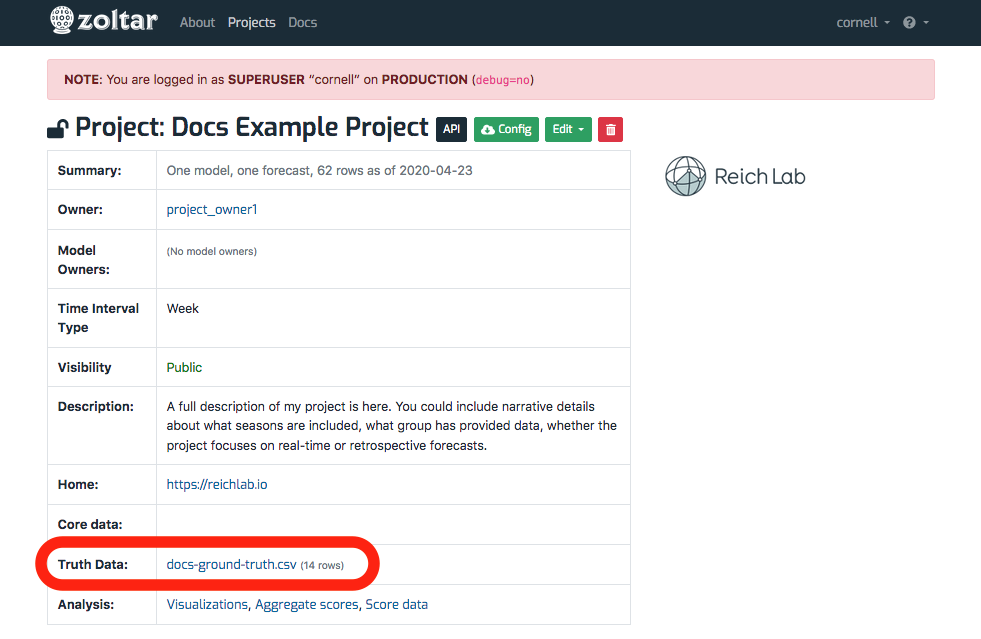
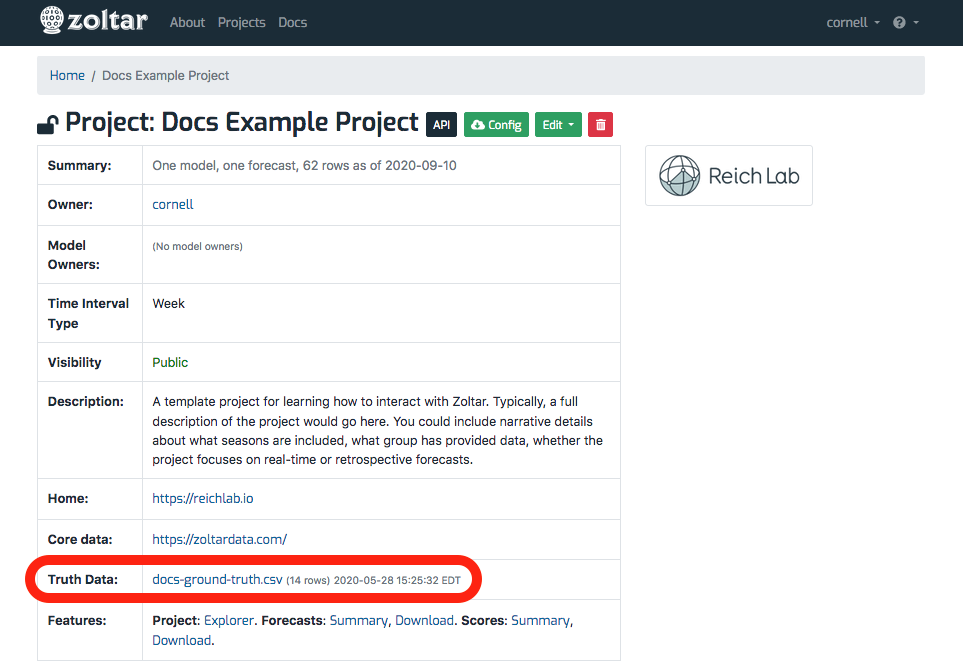
big update including up-to-date images, download job data, and querying forecasts and scores

Changed region(s): [[0.0, 0.0, 1.0, 0.9812], [0.6542, 0.2081, 0.8411, 0.3271]]

diff --git a/docs/Forecasts.md b/docs/Forecasts.md
@@ -7,34 +7,26 @@ A _forecast_ is a set of predictions for combinations of units and targets. See 
 
 ## Upload a forecast
 
-Here we show how to upload forecast data into Zoltar. It is important to know that Zoltar _enqueues_ long operations like forecast uploading, which keeps the site responsive but makes uploading a little more complicated. Rather than having the upload feature _block_ until the upload is done, you instead get a quick response in the form of an _upload file job_ detail page that shows the status of your upload. This page is described in [Check an upload's status](#check-an-uploads-status) below.
+Here we show how to upload forecast data into Zoltar.
+
+> Note: As mentioned at [Jobs](Jobs.md), uploading a forecast is done in a separate worker process because it may take more than a handful of seconds to run. Thus the workflow is based on that (see [Job workflow](Jobs.md#workflow) for details).
+
 
 Forecasts are uploaded to a particular model for a particular time zero. To upload one:
 
 1. Go to the [model detail page](ModelDetailPage.md) of the one you want to upload into.
+1. Make sure "Hide if no data" is unchecked.
 1. Find the time zero that the forecast is associated with.
 1. If the time zero already has a forecast then delete it (see **Delete a forecast** below). You can tell if a time zero has an uploaded forecast in two ways: the text in the "Data Source" column is a link instead of the words "(No data)" and the icon in the "Action" column is a red trash can and not a green upload icon.
 1. Click the "Browse..." button in the time zero's "Action" column.
 1. In the dialog that appears, select a Forecast data format JSON file
 1. Click the green upload button.
-1. If the file is OK then you will be taken to an upload file job detail page that shows the status of your upload, with the message "Queued the forecast file __ for uploading.", where __ is your file's name. See [Check an upload's status](#check-an-uploads-status) below for this page's details.
-1. Once the upload is successful (you can refresh the upload file job page to check) then you will see it next to the selected time zero on the [model detail page](ModelDetailPage.md).
+1. If the file is OK then you will be taken to a [job detail page](Jobs.md#check-a-jobs-status) that shows the status of your upload, with the message "Queued the forecast file _ for uploading.", where _ is your file's name.
+1. Once the upload is successful (you can refresh the job detail page to check) then you will see the newly-uploaded file listed next to the selected time zero on the [model detail page](ModelDetailPage.md).
 1. If there was a problem uploading then you will see the upload's status as **FAILED**. The **Failure** section will provide some information to help debug the problem.
 
 
-## Download a single forecast
-
-> Note: Downloading multiple forecasts is possible, but only programmatically using the [Zoltar libraries](ApiIntro.md). Learn more on the [forecast query format](ForecastQueryFormat.md) page.
-
-
-To download a particular forecast:
-
-1. Go to the [model detail page](ModelDetailPage.md) where the forecast resides.
-1. Click the link in the "Data Source" column to go to the [forecast detail page](Forecasts.md).
-1. Click the "Download JSON" button and save the file in the JSON format documented at [Forecast data format](FileFormats.md#forecast-data-file-format-json) for details.
-
-
-# Delete a forecast
+## Delete a forecast
 
 Delete a forecast via these steps:
 
@@ -43,39 +35,42 @@ Delete a forecast via these steps:
 1. Click "Delete" in the confirmation dialog that appears. **Note that this cannot be undone!**
 
 
-# Check an upload's status
+## Download a single forecast
 
-As described above, uploading a file _enqueues_ the actual uploading of the data for handling by a Zoltar worker process, rather than processing the upload immediately. The job detail page is where you can check the status of an upload, or any other long-running activity. (Note that how long it takes for a file to be processed depends on how busy the site is.) Here's an example upload file job detail page for one whose status is QUEUED:
+To download a particular forecast:
 
-![Upload file job detail page](img/upload-file-job-detail-queued.png "Upload file job detail page")
+1. Go to the [model detail page](ModelDetailPage.md) where the forecast resides.
+1. Click the link in the "Data Source" column to go to the [forecast detail page](Forecasts.md).
+1. Click the "Download JSON" button and save the file in the JSON format documented at [Forecast data format](FileFormats.md#forecast-data-file-format-json) for details.
 
-You can see that it has the following fields:
-
-- _User_: User who uploaded the file.
-- _Status_: The upload's status, which is one of the following:
-    - **PENDING**: The state an upload starts in.
-    - **CLOUD_FILE_UPLOADED**: The uploaded file was successfully saved to temporary cloud storage.
-    - **QUEUED**: The upload file job was successfully enqueued for processing.
-    - **CLOUD_FILE_DOWNLOADED**: The uploaded file was successfully retrieved from temporary cloud storage
-    - **SUCCESS**: The job was successfully completed.
-    - **FAILED**: The job failed.
-- _File Name_: The uploaded file's name that was given to Zoltar.
-- _Failure_: The failure message if status is FAILED, or "None" otherwise. This section will provide some information to help debug the problem.
-- _ΔT_: How much time the upload took to process. This is formatted as "<hours>:<minutes>:<seconds>.<microsecond>", For example, "0:00:01.155223" means the job took zero hours, zero minutes, one second, and 155223 microseconds.
-- _Created_: Date and time the file was uploaded at.
-- _Updated_: The last time the upload's status was changed.
-- _JSON In_: The JSON information passed internally to the upload. You can ignore this.
-- _JSON Out_: "" returned internally by the upload. ""
-
-Note that you must refresh this page to get the latest status (it does not update dynamically). 
-
-You can see all of your upload file jobs in the **Upload File Jobs** section on your [user profile page](Accounts.md). 
-
-For reference, here are two other jobs in different states. This one's state is SUCCESS:
-
-![Upload file job success](img/upload-file-job-detail-success.png "Upload file job success")
+(Note that if you are only interested in a particular unit/target combination, you can use the "Query Forecast Data" form on that page - see [here](ForecastDetailPage.md#query-form-and-results) for details.)
 
 
-And this one FAILED:
+## Download multiple forecasts
 
-![Upload file job failed](img/upload-file-job-detail-failed.png "Upload file job failed")
+> Note: Downloading multiple forecasts is currently available only to users with Zoltar accounts.
+>
+> Note: As mentioned at [Jobs](Jobs.md), downloading a forecast is done in a separate worker process because it may take more than a handful of seconds to run. Thus the workflow is based on that (see [Job workflow](Jobs.md#workflow) for details).
+
+Forecasts are downloaded by executing a [forecast query](ForecastQueryFormat.md) by either a) [Zoltar API](Api.md) using the [Zoltar libraries](ApiIntro.md), or b) via a simple web UI form (shown below). In both cases you need to follow these steps:
+ 
+ 1. Decide the data of interest (i.e., `models`, `units`, `targets`, `timezeros`, and prediction `types`).
+ 1. Submit the query to get a Job ID.
+ 1. Poll the resulting Job until it succeeds (see [Check a job's status](Jobs.md#check-a-jobs-status)).
+ 1. Download the job's data (see [Download a job's data](Jobs.md#download-a-jobs-data)). The format is described at [Forecast data format (CSV)](FileFormats.md#forecast-data-format-csv).
+ 
+ 
+## Download multiple forecasts via the web UI
+ 
+ To download forecast data via the web UI:
+ 
+ 1. Go to the [project detail page](ProjectDetailPage.md) whose models contain the forecasts. 
+ 1. Click the "Download" button to the right of "Forecasts" in the Features section at the page's top.
+ 1. On the "Edit Forecast Query" page that shows, enter your query and then click "Submit" (see the screen shot below).
+ 1. Poll the resulting Job until it succeeds (see [Check a job's status](Jobs.md#check-a-jobs-status)).
+ 1. Download the job's data (see [Download a job's data](Jobs.md#download-a-jobs-data)).
+
+
+Here's an example of the Edit Forecast Query page:
+
+![Query forecasts page](img/query-forecasts.png "Query forecasts page")

diff --git a/docs/ProjectDetailPage.md b/docs/ProjectDetailPage.md
@@ -2,7 +2,7 @@
 
 A *project* is the main element for representing a forecasting challenge. It has an *owner* (a registered user in the system), and zero or more *model owners* (also users in the system). A project owner can do anything to the project, but model owners are limited to creating, editing, and deleting forecast models, and uploading and deleting forecasts. (To become a model owner you must contact the project owner.)
 
-Each project's detail page is divided into five vertical sections with **bold** headings, described next: **Details table**, **Models**, **Units**, **Targets**, and **Time zeros**. Currently the top looks like this:
+Each project's detail page is divided into five vertical sections with **bold** headings, described next: **Details table**, **Models**, **Units**, **Targets**, and **Time zeros**. Here's an example (the bottom has been cut off):
 
 ![Project detail page](img/project-detail-page.png "Project detail page")
 
@@ -23,7 +23,7 @@ At the top of the page is a table showing this information related to the projec
 - _Home_: A link to the project's home page, which might include details about any competitions, source code, team members, included models, etc.
 - _Core data_: A link to a page that contains data (e.g., CSV files) used to train models. For model competitions, it should include all data sets made available to everyone in the challenge, including supplemental data like Google queries or weather data. Ideally Zoltar users interested in re-running a project's models have all they need in the home and core data directories. However, they are not used directly by Zoltar.
 - _Truth data_: A data file containing target ground truth that the project owner uploads. This data contains observed target values for time zeros and locations in the project, and is a project-agnostic way to capture actual values that models predicted for. It is used to calculate scores, and to extract the 'actual' data used in the D3 component's TimeChart. See [Truth](Truth.md) for details.
-- _Analysis_: Links to visualization and score pages. See [Scoring](Scoring.md) for details.
+- _Analysis_: Links to visualization and score pages, including links to [download forecasts](Forecasts.md#download-multiple-forecasts) and [download scores](Scoring.md#downloading-scores). 
 
 
 ## Forecast models
@@ -38,17 +38,16 @@ This section lists names of the **units** in the project. (See [Concepts](Concep
 
 ## Targets
 
-This section lists information about project forecast targets, which are a central Zoltar concept. See [Targets](Targets.md) for more about them. Like units, these were created by the project owner. Some of these parameters are optional - [this table](xx#summary-of-allowed-optional-and-required-parameters-by-target-type) shows which apply based on target type.
+This section lists information about project forecast targets, which are a central Zoltar concept. See [Targets](Targets.md) for more about them. Like units, these were created by the project owner. Some of these parameters are optional - [this table](Targets.md#summary-of-allowed-optional-and-required-parameters-by-target-type) shows which apply based on target type.
 
-the table includes the following columns:
+The table includes the following columns:
 
-- _Name_: Self-explanatory.
-- _Description_: "".
+- _Target group_: This column is either a target's name, or a derived name from a group of related targets (step-ahead ones whose step ahead increment is in the name).
+- _# Targets_: How many targets are in the group, or _1_ if not a group.
 - _Type_: The target's [type](Targets.md#target-types).
-- _Unit_: E.g., "percent" or "week". Unit is used when previewing data, and when downloading it. (Be aware that it can be confusing having both __unit__ objects as above along with a specific target's unit.)
+- _Unit_: E.g., "percent" or "week". Unit is used when previewing data, and when downloading it. (Be aware that it can be confusing having both **unit** objects as above along with a specific target's unit.)
 - _Step Ahead?_: Shows two pieces of information: 1) Whether the target is a "step ahead" one, and (if so) 2) what the "step ahead increment" is. (Step ahead targets are used to predict values in the future, and are used by some analysis tools.)
-- _Range_: An optional numerical range of acceptable values.
-- _Cats_: Optional acceptable categories for binned distributions.
+- _Example Target_: A specific target's name if a group, or the one target's name otherwise.
 
 
 ## Time zeros

diff --git a/docs/Truth.md b/docs/Truth.md
@@ -1,6 +1,6 @@
 # Manging truth data
 
-Zoltar supports uploading ground truth data for each project that desires automatic scoring. This data is specified as a CSV file as documented in [Truth data format](http://127.0.0.1:8000/FileFormats/#truth-data-format-csv), and each project is responsible for generating the CSV file for their particular set of [time zeros](Concepts.md), [units](Concepts.md) and [targets](Concepts.md). You can tell whether truth has been uploaded to a project by looking at the **Truth Data** row in the [Project details table](http://127.0.0.1:8000/ProjectDetailPage/#project-details-table) section of the [project detail page](ProjectDetailPage.md). It will either be a link with the truth data file name (which means truth is present) and the number of rows in parentheses, or a "Browse..." button next to a green "Upload" button with the text _(No truth data)_ to its right otherwise. Clicking on the link takes you to the Truth detail page documented in [Truth detail page](#view-truth-details) below.
+Zoltar supports uploading ground truth data for each project that desires automatic scoring. This data is specified as a CSV file as documented in [Truth data format](FileFormats.md#truth-data-format-csv), and each project is responsible for generating the CSV file for their particular set of [time zeros](Concepts.md), [units](Concepts.md) and [targets](Concepts.md). You can tell whether truth has been uploaded to a project by looking at the **Truth Data** row in the [Project details table](ProjectDetailPage.md#project-details-table) section of the [project detail page](ProjectDetailPage.md). It will either be a link with the truth data file name (which means truth is present) and the number of rows in parentheses, or a "Browse..." button next to a green "Upload" button with the text _(No truth data)_ to its right otherwise. Clicking on the link takes you to the Truth detail page documented in [Truth detail page](#view-truth-details) below.
 
 Here's a screen shot showing a project where truth has been uploaded (circled in red):
 
@@ -29,17 +29,17 @@ Here you see a small information table at the top showing the project and truth 
 Follow these steps to upload a truth CSV file:
 
 1. Go to the [project detail page](ProjectDetailPage.md) of the project of interest.
-1. Click the "Browse..." button in the [Project details table](http://127.0.0.1:8000/ProjectDetailPage/#project-details-table)'s **Truth Data** row.
-1. In the dialog that appears, select a truth data CSV file in Zoltar's [Truth data format](http://127.0.0.1:8000/FileFormats/#truth-data-format-csv).
+1. Click the "Browse..." button in the [Project details table](ProjectDetailPage.md#project-details-table)'s **Truth Data** row.
+1. In the dialog that appears, select a truth data CSV file in Zoltar's [Truth data format](FileFormats.md#truth-data-format-csv).
 1. Click the green upload button.
-1. If the file is OK then you will be taken to an upload file job detail page that shows the status of your upload, with the message "Queued the truth file __ for uploading.", where __ is your file's name. See [Check an upload's status](#check-an-uploads-status) below for this page's details.
+1. If the file is OK then you will be taken to an upload file job detail page that shows the status of your upload, with the message "Queued the truth file _ for uploading.", where _ is your file's name. See [Check an upload's status](#check-an-uploads-status) below for this page's details.
 1. Once the upload is successful (you can refresh the upload file job page to check) then you will the file name as a link as described above.
 1. If there was a problem uploading then you will see the upload's status as **FAILED**. The **Failure** section will provide some information to help debug the problem.
 
 
 ## Download truth
 
-Here are the steps to download a project's truth data as a CSV file in Zoltar's [Truth data format](http://127.0.0.1:8000/FileFormats/#truth-data-format-csv):
+Here are the steps to download a project's truth data as a CSV file in Zoltar's [Truth data format](FileFormats.md#truth-data-format-csv):
 
 1. Go to the [project detail page](ProjectDetailPage.md) of the project of interest.
 1. Click the truth link above go to the [Truth detail page](#view-truth-details) page.

diff --git a/docs/ForecastDetailPage.md b/docs/ForecastDetailPage.md
@@ -1,6 +1,6 @@
 # Forecast detail page
 
-The forecast detail page shows information about a particular forecast, and is divided into two vertical sections with **bold** headings, described next: __Details table__ and __Prediction information__. Here's an example forecast detail page: 
+The forecast detail page shows information about a particular forecast, and is divided into five vertical sections with **bold** headings, described next: **Details table**, **Units present**, **Targets present**, **Predictions present**, and **Query form and results**. Here's an example forecast detail page: 
 
 ![Forecast detail page](img/forecast-detail-page.png "Forecast detail page")
 
@@ -12,10 +12,36 @@ At the top of the page is a table showing information related to the forecast:
 - _Model_: A link to the owning [model](ModelDetailPage.md).
 - _Timezero_: The time zero that the forecast applies to. (The data version date, if any, is not shown here.) See [Concepts](Concepts.md) for more about time zeros.
 - _Data Source_: Text describing where the forecast came from. It can be anything but is typically a data file name, such as a CSV. The source is a link to the forecast's [forecast detail page](ForecastDetailPage.md). It says "(No data)" if a forecast has not yet been uploaded for that time zero. 
-- _Upload Date_: The date and time that the forecast was uploaded to Zoltar.
+- _Upload time_: The date and time that the forecast was uploaded to Zoltar.
 - _Notes_: Text describing anything slightly different about a given forecast, e.g., a changed set of assumptions or a comment about when the forecast was created. Notes should be brief, typically less than 50 words.
 
 
-## Predictions
+## Units present
 
-The predictions section has a heading like **"Forecast has __ predictions"** (where __ is the actual number of predictions) and a bulleted summary of the counts of the five different prediction types that can be associated with a forecast: `bin`, `named`, `point`, `quantile`, and `sample`. The "Download JSON" button downloads a JSON file containing the forecast's predictions. See [Data Model](DataModel.md) for more information on how forecast data is modeled.
+This section is the same as on the [project detail page](ProjectDetailPage.md), but lists only those units for which this forecast predicts.
+
+
+## Targets present
+
+This section is the same as in [project detail page](ProjectDetailPage.md), but lists only those targets for which this forecast predicts.
+
+
+## Predictions present
+
+The predictions section has the heading **"Predictions (_)"** (where _ is the actual number of predictions) and a bulleted summary of the counts of the five different prediction types that can be associated with a forecast: `bin`, `named`, `point`, `quantile`, and `sample`. See [Data Model](DataModel.md) for more information on how forecast data is modeled.
+
+
+## Query form and results
+
+At the bottom of the page under **Query Forecast Data** is a simple form that allows searching the forecast's predictions by unit and target. (Those two dropdown menus contain the units and targets that have predictions, but there's no guarantee that every combination has data.) Clicking Search runs the query and shows the results below the form. There is a table for each type of prediction that's present (`bin`, `named`, etc.) and each table's columns are customized according to the prediction type (all tables have **Unit** and **Target** columns):
+
+- `bin`: **Prob** and **Cat** columns
+- `named`: **Family**, **Param 1**, **Param 2**, and **Param 3** columns
+- `point`: a **Value** column
+- `quantile`: **Quantile** and **Value** columns
+- `sample`: a **Sample** column
+
+
+Here's an example (the page has been scrolled down) under **Found predictions**:
+
+![Forecast detail page with query results](img/forecast-detail-page-query.png "Forecast detail page with query results")

diff --git a/docs/Jobs.md b/docs/Jobs.md
@@ -1,0 +1,64 @@
+# Jobs
+
+Some Zoltar operations can take longer than a handful of seconds to run. For these cases, Zoltar offloads them to a separate worker process so that the web site remains responsive. We call those offloaded operations **Jobs**, and this page describes how to work with them.
+
+
+These are the activities that return jobs:
+
+- [Uploading truth](#xx) or [uploading a forecast](#xx) (does not result in data)
+- [Querying forecasts](#xx) or [querying scores](#xx) (results in data)
+- [Deleting a forecast](#xx) (no data)
+
+
+To see a list of all of your jobs, go to your [profile page](Accounts.md#view-your-profile-page) and scroll down to the **Jobs** section.
+
+
+## Workflow
+
+When you initiate one of the above activities (either via the Web or the API), Zoltar creates an internal Job to track it and returns that Job's ID so you can check its status and optionally download any corresponding data. The workflow is:
+
+1. Initiate the activity. This returns a job that you can use to a) track the status of the query, and b) optionally download the job's data.
+1. Poll the job until its status is **SUCCESS**. (You can use the Web UI to do this - see [Check a job's status](#check-a-jobs-status) for how.)
+1. Optionally [download the job's data](#download-a-jobs-data), if applicable. Note that data is available for 24 hours after it's created.
+
+
+## Check a job's status
+
+The job detail page is where you can check the status of long-running activities. (Note that how long it takes for a file to be processed depends on how busy the site is.) Note that you must refresh this page to get the latest status (it does not update dynamically).
+
+
+Here's an example job detail page for an upload whose status is SUCCESS:
+
+![Job detail page - success](img/job-success-data.png "Job detail page - success")
+
+You can see that it has the following fields:
+
+- _User_: User who uploaded the file.
+- _Status_: The upload's status, which is one of the following:
+    - **PENDING**: The state an upload starts in.
+    - **CLOUD_FILE_UPLOADED**: The uploaded file was successfully saved to temporary cloud storage.
+    - **QUEUED**: The upload file job was successfully enqueued for processing.
+    - **CLOUD_FILE_DOWNLOADED**: The uploaded file was successfully retrieved from temporary cloud storage
+    - **SUCCESS**: The job was successfully completed.
+    - **FAILED**: The job failed.
+    - **TIMEOUT**: The job ran too long and was terminated.
+- _Failure_: The failure message if status is FAILED, or "None" otherwise. This section will provide some information to help debug the problem.
+- _ΔT_: How much time the upload took to process. This is formatted as "<hours>:<minutes>:<seconds>.<microsecond>", For example, "0:00:01.155223" means the job took zero hours, zero minutes, one second, and 155223 microseconds.
+- _Created_: Date and time the file was uploaded at.
+- _Updated_: The last time the upload's status was changed.
+- _JSON In_: The JSON information passed internally to the upload. You can ignore this.
+- _JSON Out_: "" returned internally by the upload. ""
+
+
+Here is a job whose status is FAILED, with a failure message:
+
+![Job detail page - failed](img/job-failed.png "Job detail page - failed")
+
+
+## Download a job's data
+
+Each job's detail page has a "Download CSV" button at the bottom. The button is enabled if the job has corresponding data, and disabled otherwise with the message _(No job data)_ next to the button.
+
+The first screen shot above shows a job that has data that can be downloaded. Here's a job with no data available:
+
+![Job detail page - no data](img/job-success-no-data.png "Job detail page - no data")

diff --git a/docs/Scoring.md b/docs/Scoring.md
@@ -26,20 +26,26 @@ At the time of writing Zoltar implements these scores:
 In addition, aggregate score values are calculated (see below).
 
 
-## Viewing scores
-
-Scores are accessed from the [project detail page](ProjectDetailPage.md) of the project of interest via the links in the **Analysis** row in the project details table at the top of the page. There are three links:
-
-- _Visualizations_: Takes you to a page that shows a time chart of the project's predictions. See the [visualization](Visualization.md) page for details.
-- _Aggregate scores_: Goes to the "Mean Absolute Error" page. [Absolute error](https://github.com/reichlab/flusight/wiki/Scoring#1-absolute-error) is the absolute value of difference between the eventually observed value and the point prediction. This page is an aggregate of scores that are currently in Zoltar, and only as up-to-date as they are. No scores are shown for a particular unit or target if the errors could not be calculated because not all truth values were available for it. <!-- TODO more detail -->
-- _Score data_: The linked-to page shows score counts at both the project and model levels. Only those scores that have values are shown.
-
-
-Here's an example score page: 
-
-![Scores page](img/scores-page.png "Scores page")
-
-
 ## Downloading scores
 
-Currently scores can only be downloaded programmatically using the [Zoltar libraries](ApiIntro.md). Learn more on the [score query format](ScoreQueryFormat.md) page.
+> Note: Downloading scores is currently available only to users with Zoltar accounts.
+>
+> Note: As mentioned at [Jobs](Jobs.md), downloading scores is done in a separate worker process because it may take more than a handful of seconds to run. Thus the workflow is based on that (see [Job workflow](Jobs.md#workflow) for details).
+
+Scores are downloaded by executing a [scores query](ScoreQueryFormat.md) by either a) [Zoltar API](Api.md) using the [Zoltar libraries](ApiIntro.md), or b) via a simple web UI form (shown below). In both cases you need to follow these steps:
+ 
+ 1. Decide the data of interest (i.e., `models`, `units`, `targets`, `timezeros`, and `scores`).
+ 1. Submit the query to get a Job ID.
+ 1. Poll the resulting Job until it succeeds (see [Check a job's status](Jobs.md#check-a-jobs-status)).
+ 1. Download the job's data (see [Download a job's data](Jobs.md#download-a-jobs-data)). The format is described at [Score data format (CSV)](FileFormats.md#score-data-format-csv).
+ 
+ 
+## Download scores via the web UI
+ 
+ To download score data via the web UI:
+ 
+ 1. Go to the [project detail page](ProjectDetailPage.md) whose models contain the forecasts. 
+ 1. Click the "Download" button to the right of "Scores" in the Features section at the page's top.
+ 1. On the "Edit Scores Query" page that shows, enter your query and then click "Submit" (see the screen shot below).
+ 1. Poll the resulting Job until it succeeds (see [Check a job's status](Jobs.md#check-a-jobs-status)).
+ 1. Download the job's data (see [Download a job's data](Jobs.md#download-a-jobs-data)).

diff --git a/docs/ModelDetailPage.md b/docs/ModelDetailPage.md
@@ -15,6 +15,11 @@ At the top of the page is a table showing information related to the model:
 - _Project_: A link to the project the model belongs to.
 - _Team name_: The name of the team that developed the model. This is not used directly by Zoltar.
 - _Description_: Prose provided by model owner. It should include information on reproducing the model's results.
+- _Contributors_: List of names as specified by the model owner.
+- _License_: License ""
+- _Notes_: ""
+- _Citation_: ""
+- _Methods_: ""
 - _Home_: A link to the model home page.
 - _Auxiliary data_: An optional link to model-specific data files that were used by the model beyond the project's core data. Not used directly by Zoltar.
 
@@ -25,5 +30,7 @@ The **Forecasts** section is a table of the model's forecasts, ordered by projec
 
 - _Timezero_: The time zero that the forecast applies to. (The data version date, if any, is not shown here.) See [Concepts](Concepts.md) for more about time zeros.
 - _Data Source_: Text describing where the forecast came from. It can be anything but is typically a data file name, such as a CSV. The source is a link to the forecast's [forecast detail page](ForecastDetailPage.md). It says "(No data)" if a forecast has not yet been uploaded for that time zero. 
-- _Upload Date_: The date and time that the forecast was uploaded to Zoltar.
-- _Action_: A button that is either a green upload icon if there is no data associated with the time zero, or a red delete button otherwise. See [Forecasts](Forecasts.md) for instructions on how to upload forecasts, and [File formats](FileFormats.md#forecast-data-format-json) for how forecast files are structured in Zoltar.
+- _Upload Time_: The date and time that the forecast was uploaded to Zoltar.
+- _Action_: A button that is either a green upload icon if there is no data associated with the time zero, or a red delete button otherwise. See [Forecasts](Forecasts.md) for instructions on how to upload forecasts, and [File formats](FileFormats.md#forecast-data-format-json) for how forecast files are structured in Zoltar. This feature is enabled only for project owners or model owners.
+
+The **Hide if no data** checkbox, if checked, shows only those Timezeros that have an uploaded forecast. Uncheck it to see all Timezeros (necessary if you want to upload any). 

diff --git a/docs/Accounts.md b/docs/Accounts.md
@@ -14,7 +14,7 @@ Selecting "Profile Page" takes you to details about your account:
 
 ![User profile page](img/user-profile-page.png "User profile page")
 
-From this page you can use the buttons at the top to edit your email address and name, and to change your password. In addition, you'll see sections for the **Projects** you're involved with (either as a project owner or model owner), the **Models** you own, and the **[Upload File Jobs](Forecasts.md#check-an-uploads-status)** you have created.
+From this page you can use the buttons at the top to edit your email address and name, and to change your password. In addition, you'll see sections for the **Projects** you're involved with (either as a project owner or model owner), the **Models** you own, and the **[Jobs](Jobs.md)** you have created.
 
 
 ## Reset your password

diff --git a/docs/ForecastQueryFormat.md b/docs/ForecastQueryFormat.md
@@ -1,6 +1,6 @@
 # Querying a project's forecasts
 
-In addition to the ability to download individual forecasts via both the [Web UI](Forecasts.md#download-a-single-forecast) and the [Zoltar libraries](ApiIntro.md), Zoltar supports downloading multiple forecasts at once, but currently only through the libraries.
+In addition to the ability to download individual forecasts via both the [web UI](Forecasts.md#download-a-single-forecast) and the [Zoltar libraries](ApiIntro.md), Zoltar supports downloading multiple forecasts at once, but currently only through the libraries.
 
 
 ## Querying workflow
